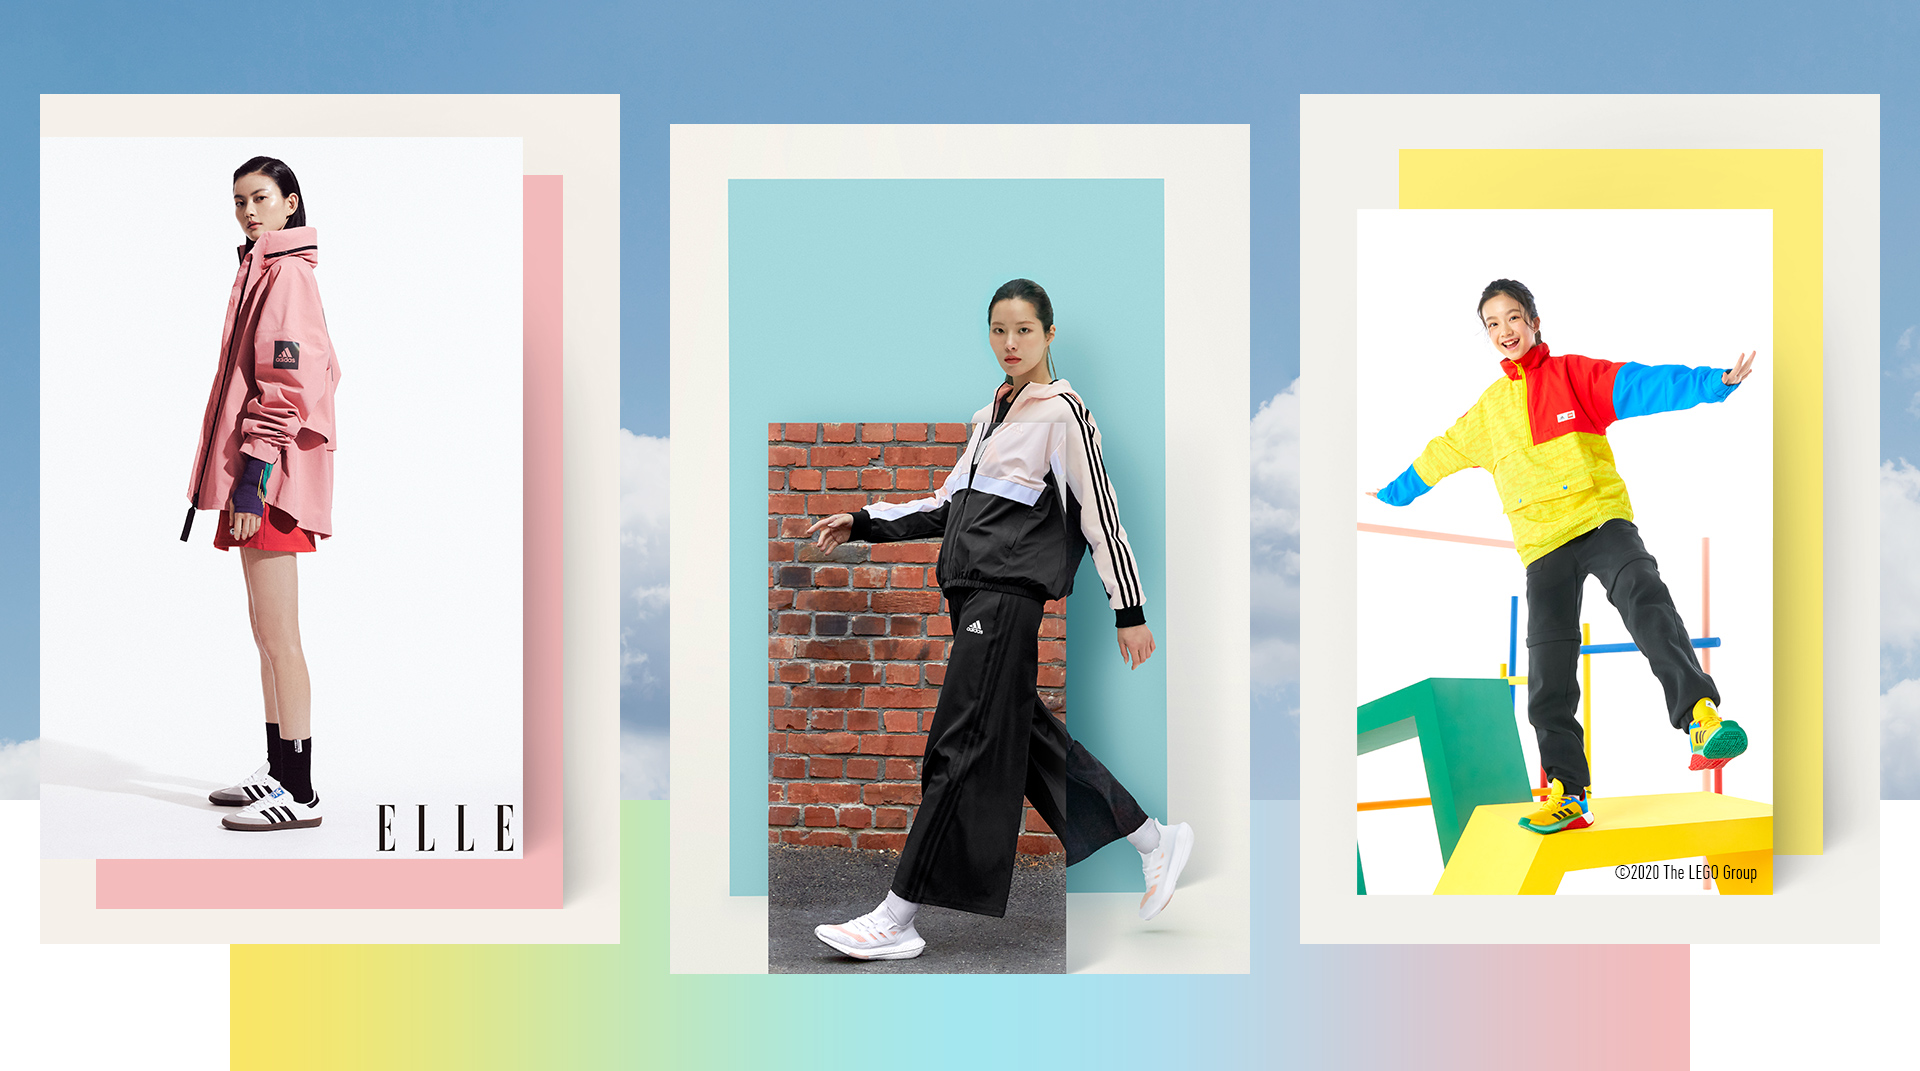
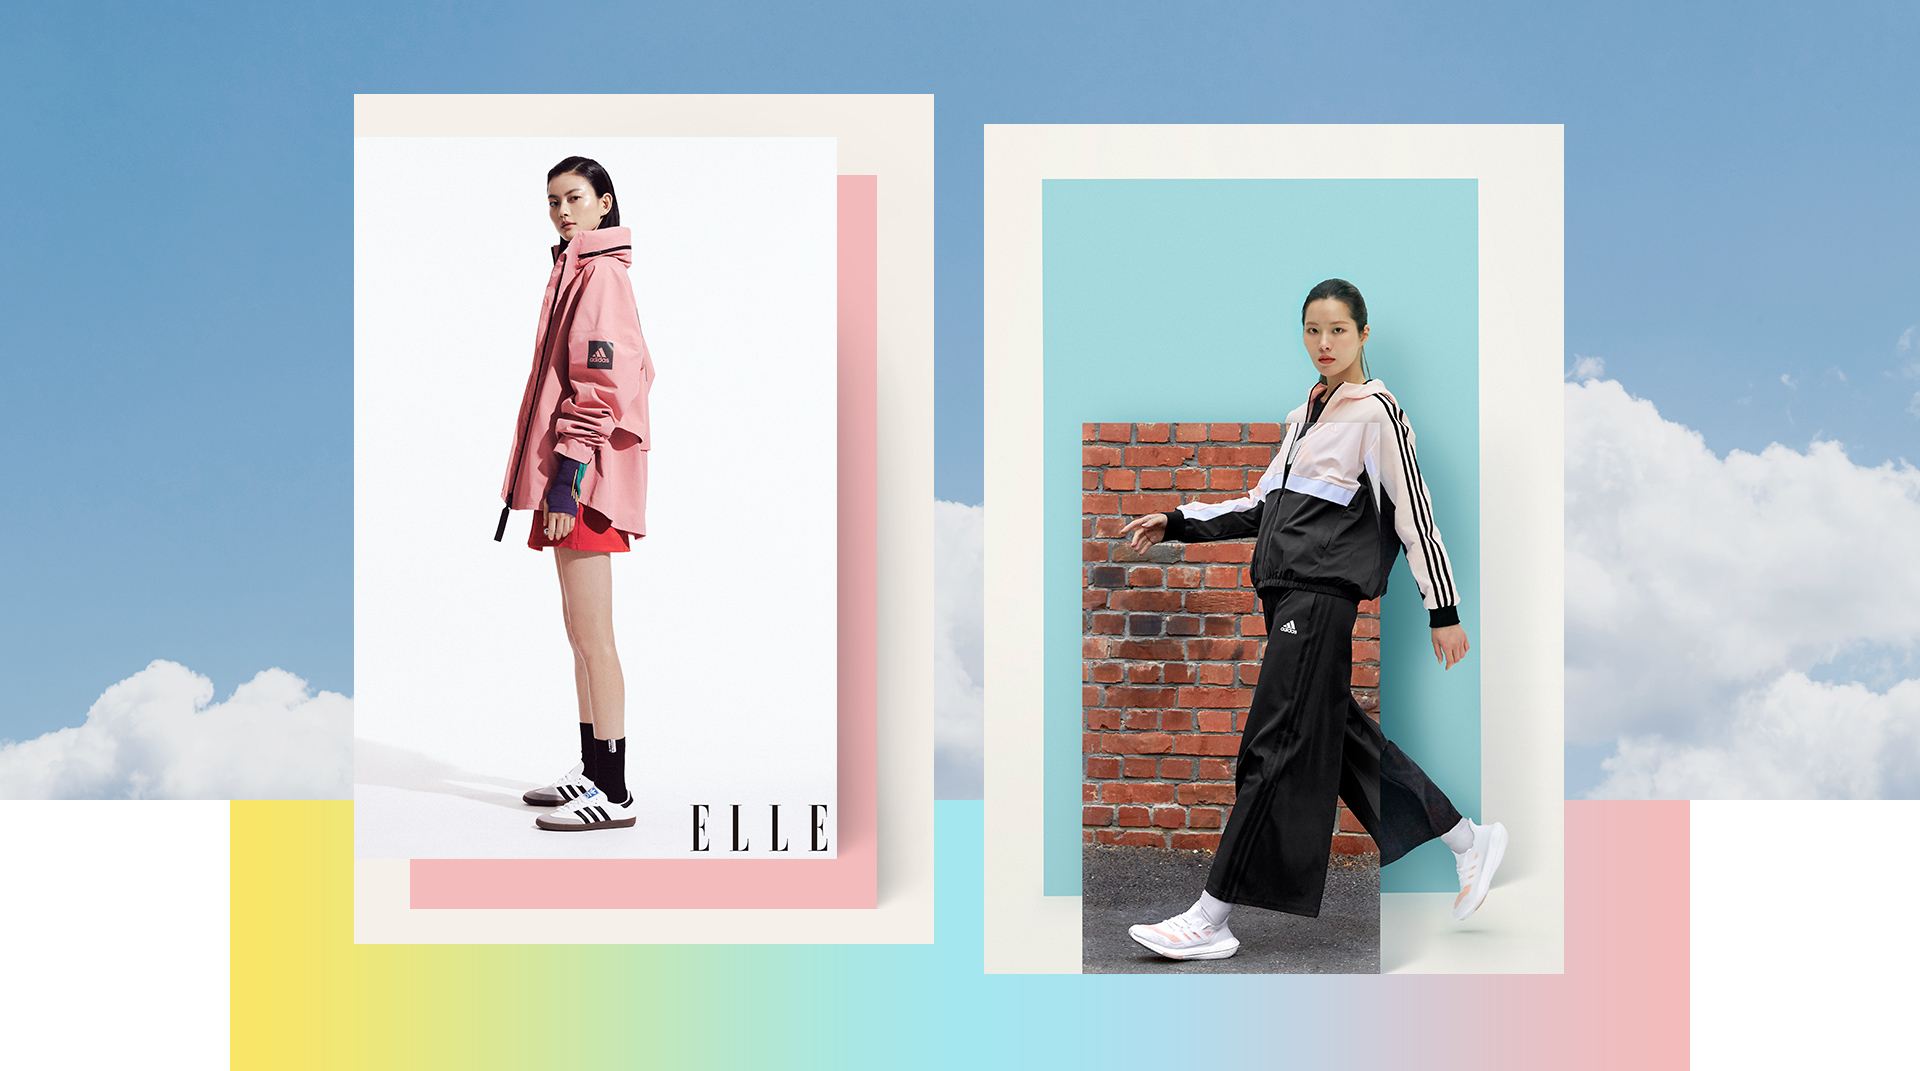
adi_CP_SP자켓 키즈 삭제

diff --git a/front/html/adidas/2021/event/outerjacket/build/index.html b/front/html/adidas/2021/event/outerjacket/build/index.html
@@ -33,7 +33,7 @@
 		<header include-html="/html/adidas/inc/header.html"></header>
 
 		<div id="container_r" class="campaign-content">
-<style type="text/css">.pseudo-element{content:'';display:block}#outerjacket section{position:relative;margin:0 auto;min-width:1190px}#outerjacket em{font-weight:700;font-style:normal}#outerjacket .btn_default{margin-top:0}#outerjacket .bg01{background:url("/images/adidas/2021/event/outerjacket/bg01.jpg") no-repeat;background-position:top;background-size:100% auto}#outerjacket .bg02{background:url("/images/adidas/2021/event/outerjacket/bg01.jpg") no-repeat;background-position:top;background-size:100% auto}#outerjacket .tabs{border-top:1.8px solid #f2bcbd;border-bottom:1.8px solid #f9e667;position:relative;background:#ffffff}#outerjacket .tabs.fixed{position:fixed;top:0;width:100%;z-index:2}#outerjacket .tabs ul{width:735px;margin:0 auto}#outerjacket .tabs ul li{position:relative;width:32.97%;font:22px/47px "adinenuPro-black";color:#000;display:inline-block;text-align:center;cursor:pointer}#outerjacket .tabs ul li.active::after{display:block;content:'';clear:both;position:absolute;bottom:-4px;left:0;right:0;width:100%;height:5px;background:url("/images/adidas/2021/event/outerjacket/tab.jpg") no-repeat}#outerjacket .visuals{height:auto}#outerjacket .visuals div[class*=figure] img,#outerjacket .visuals div[class*=figure] video{width:100%}#outerjacket .visuals .visuals__figure{margin-bottom:30rem}#outerjacket .visuals .visuals__text{position:absolute;top:97.5%;bottom:auto;left:50%;transform:translateX(-50%);margin-left:auto;white-space:nowrap;text-align:center}#outerjacket .visuals .visuals__text h3,#outerjacket .visuals .visuals__text p{text-align:center}#outerjacket .visuals .visuals__text h3{font:76px/76px "adinenuPro-black";color:#000}#outerjacket .visuals .visuals__text>p{font:400 21px/35px "NotoSansKR";color:#000;margin-top:20px}#outerjacket .visuals .visuals__text>p em{width:63%;font-weight:700;display:inline-block;margin-top:10px}#outerjacket .visuals .visuals__text .btn_default{margin-top:55px}#outerjacket .tab__container .section{display:none}@keyframes fade-in{from{opacity:0;filter:alpha(opacity=0);-ms-filter:alpha(opacity=0)}to{opacity:1;filter:alpha(opacity=100);-ms-filter:alpha(opacity=100)}}#outerjacket .tab__container .section.active{display:block;animation:fade-in 1s;animation-fill-mode:forwards;transition:0.5s;-webkit-transition:0.5s;-moz-transition:0.5s;-o-transition:0.5s;-ms-transition:0.5s}#outerjacket .tab__container .section.section02 .head__text{padding:5.5rem 0 3em 0}#outerjacket .tab__container .section .head__text{padding:5.5rem 0 5em 0;text-align:center}#outerjacket .tab__container .section .head__text span{font:400 21px/21px "NotoSansKR";color:#000}#outerjacket .tab__container .section .head__text p{text-align:center;font:900 40px/65px "NotoSansKR";color:#000}#outerjacket .tab__container .section .head__text .btn_default{margin-top:30px}#outerjacket .tab__container .section .content{position:relative}#outerjacket .tab__container .section .content img{width:100%}#outerjacket .tab__container .section .content .txt{position:absolute;top:50%;bottom:auto;left:61%;transform:translateY(-50%);margin-left:auto}#outerjacket .tab__container .section .content .txt h3{font:40px/42px "adinenuPro-black";color:#000}#outerjacket .tab__container .section .content .txt p{font:400 18px/26.5px "NotoSansKR";color:#000;margin:20px 0 30px 0}@media screen and (max-width: 1500px){#outerjacket .tab__container .section .content .txt p{font-size:15.5px}}@media screen and (max-width: 1300px){#outerjacket .tab__container .section .content .txt p{font-size:14.5px}}#outerjacket .tab__container .section .content.extra{margin:0.9rem 0}#outerjacket .tab__container .section .content.extra .txt{position:absolute;top:50%;bottom:auto;left:auto;transform:translateY(-50%);margin-left:auto;right:55%;text-align:right}#outerjacket .tab__container .section .content.extra .txt h3,#outerjacket .tab__container .section .content.extra .txt p{text-align:right}#outerjacket .tab__container .section .content .video{position:absolute;top:26.3%;bottom:auto;left:50%;transform:translate(-50%, -50%);margin-left:auto;width:42%}#outerjacket .tab__container .section .content .video video{width:100%}#outerjacket .tab__container .section .desc{padding:60px 0 40px 0;white-space:nowrap}#outerjacket .tab__container .section .desc.desc2{width:447px;margin:0 auto;padding:60px 0 65px 0}#outerjacket .tab__container .section .desc.desc2 p{line-height:35.5px}#outerjacket .tab__container .section .desc.desc2 p em{margin-top:10px}#outerjacket .tab__container .section .desc p{font:400 21px/38px "NotoSansKR";color:#000;text-align:center}#outerjacket .tab__container .section .desc p em{width:100%;display:inline-block}#outerjacket .bottoms{height:auto;padding-bottom:100px}#outerjacket .bottoms div[class*=figure] img,#outerjacket .bottoms div[class*=figure] video{width:100%}#outerjacket .bottoms .txt{text-align:center;position:absolute;top:41%;bottom:auto;left:50%;transform:translate(-50%, -50%);margin-left:auto}#outerjacket .bottoms .txt p{font:500 21px/34px "NotoSansKR";color:#000;text-align:center}#outerjacket .bottoms .txt .btn_default{margin-top:35px}
+<style type="text/css">.pseudo-element{content:'';display:block}#outerjacket section{position:relative;margin:0 auto;min-width:1190px}#outerjacket em{font-weight:700;font-style:normal}#outerjacket .btn_default{margin-top:0}#outerjacket .bg01{background:url("/images/adidas/2021/event/outerjacket/bg01.jpg") no-repeat;background-position:top;background-size:100% auto}#outerjacket .bg02{background:url("/images/adidas/2021/event/outerjacket/bg01.jpg") no-repeat;background-position:top;background-size:100% auto}#outerjacket .tabs{border-top:1.8px solid #f2bcbd;border-bottom:1.8px solid #f9e667;position:relative;background:#ffffff}#outerjacket .tabs.fixed{position:fixed;top:0;width:100%;z-index:2}#outerjacket .tabs ul{width:735px;margin:0 auto}#outerjacket .tabs ul li{position:relative;width:48.97%;font:22px/47px "adinenuPro-black";color:#000;display:inline-block;text-align:center;cursor:pointer}#outerjacket .tabs ul li.active::after{display:block;content:'';clear:both;position:absolute;bottom:-4px;left:0;right:0;width:100%;height:5px;background:url("images/adidas/2021/event/outerjacket/tab.jpg") no-repeat;background-size:100% auto}#outerjacket .visuals{height:auto}#outerjacket .visuals div[class*=figure] img,#outerjacket .visuals div[class*=figure] video{width:100%}#outerjacket .visuals .visuals__figure{margin-bottom:30rem}#outerjacket .visuals .visuals__text{position:absolute;top:97.5%;bottom:auto;left:50%;transform:translateX(-50%);margin-left:auto;white-space:nowrap;text-align:center}#outerjacket .visuals .visuals__text h3,#outerjacket .visuals .visuals__text p{text-align:center}#outerjacket .visuals .visuals__text h3{font:76px/76px "adinenuPro-black";color:#000}#outerjacket .visuals .visuals__text>p{font:400 21px/35px "NotoSansKR";color:#000;margin-top:20px}#outerjacket .visuals .visuals__text>p em{width:63%;font-weight:700;display:inline-block;margin-top:10px}#outerjacket .visuals .visuals__text .btn_default{margin-top:55px}#outerjacket .tab__container .section{display:none}@keyframes fade-in{from{opacity:0;filter:alpha(opacity=0);-ms-filter:alpha(opacity=0)}to{opacity:1;filter:alpha(opacity=100);-ms-filter:alpha(opacity=100)}}#outerjacket .tab__container .section.active{display:block;animation:fade-in 1s;animation-fill-mode:forwards;transition:0.5s;-webkit-transition:0.5s;-moz-transition:0.5s;-o-transition:0.5s;-ms-transition:0.5s}#outerjacket .tab__container .section.section02 .head__text{padding:5.5rem 0 3em 0}#outerjacket .tab__container .section .head__text{padding:5.5rem 0 5em 0;text-align:center}#outerjacket .tab__container .section .head__text span{font:400 21px/21px "NotoSansKR";color:#000}#outerjacket .tab__container .section .head__text p{text-align:center;font:900 40px/65px "NotoSansKR";color:#000}#outerjacket .tab__container .section .head__text .btn_default{margin-top:30px}#outerjacket .tab__container .section .content{position:relative}#outerjacket .tab__container .section .content img{width:100%}#outerjacket .tab__container .section .content .txt{position:absolute;top:50%;bottom:auto;left:61%;transform:translateY(-50%);margin-left:auto}#outerjacket .tab__container .section .content .txt h3{font:40px/42px "adinenuPro-black";color:#000}#outerjacket .tab__container .section .content .txt p{font:400 18px/26.5px "NotoSansKR";color:#000;margin:20px 0 30px 0}@media screen and (max-width: 1500px){#outerjacket .tab__container .section .content .txt p{font-size:15.5px}}@media screen and (max-width: 1300px){#outerjacket .tab__container .section .content .txt p{font-size:14.5px}}#outerjacket .tab__container .section .content.extra{margin:0.9rem 0}#outerjacket .tab__container .section .content.extra .txt{position:absolute;top:50%;bottom:auto;left:auto;transform:translateY(-50%);margin-left:auto;right:55%;text-align:right}#outerjacket .tab__container .section .content.extra .txt h3,#outerjacket .tab__container .section .content.extra .txt p{text-align:right}#outerjacket .tab__container .section .content .video{position:absolute;top:26.3%;bottom:auto;left:50%;transform:translate(-50%, -50%);margin-left:auto;width:42%}#outerjacket .tab__container .section .content .video video{width:100%}#outerjacket .tab__container .section .desc{padding:60px 0 40px 0;white-space:nowrap}#outerjacket .tab__container .section .desc.desc2{width:447px;margin:0 auto;padding:60px 0 65px 0}#outerjacket .tab__container .section .desc.desc2 p{line-height:35.5px}#outerjacket .tab__container .section .desc.desc2 p em{margin-top:10px}#outerjacket .tab__container .section .desc p{font:400 21px/38px "NotoSansKR";color:#000;text-align:center}#outerjacket .tab__container .section .desc p em{width:100%;display:inline-block}#outerjacket .bottoms{height:auto;padding-bottom:100px}#outerjacket .bottoms div[class*=figure] img,#outerjacket .bottoms div[class*=figure] video{width:100%}#outerjacket .bottoms .txt{text-align:center;position:absolute;top:41%;bottom:auto;left:50%;transform:translate(-50%, -50%);margin-left:auto}#outerjacket .bottoms .txt p{font:500 21px/34px "NotoSansKR";color:#000;text-align:center}#outerjacket .bottoms .txt .btn_default{margin-top:35px}
 </style>
 			<link rel="stylesheet" type="text/css" href="/css/slick.css" />
 			<div id="outerjacket">
@@ -66,7 +66,7 @@
 						<ul>
 							<li class="active">OUTDOOR</li>
 							<li>SPORTSWEAR</li>
-							<li>KIDS</li>
+							<!-- <li>KIDS</li> -->
 						</ul>
 					</div>
 					<section class="tab__container scroll">
@@ -175,7 +175,7 @@
 							</div>
 						</section>
 
-						<section class="section03 section">
+						<!-- <section class="section03 section">
 							<div class="head__text">
 								<span>
 									우리 아이들의 생기 넘치는 봄을 위해
@@ -211,7 +211,7 @@
 										poster="/images/adidas/2021/event/outerjacket/video.jpg"></video>
 								</div>
 							</div>
-						</section>
+						</section> -->
 					</section>
 
 					<section class="bottoms">

diff --git a/front/html/adidas/2021/event/outerjacket/index.scss b/front/html/adidas/2021/event/outerjacket/index.scss
@@ -14,7 +14,7 @@
 	}
 	@for $i from 1 through 2 {
 		.bg0#{$i} {
-			background: url('/images/adidas/2021/event/outerjacket/bg01.jpg') no-repeat;
+			background: url("/images/adidas/2021/event/outerjacket/bg01.jpg") no-repeat;
 			// background: url('/images/adidas/2021/event/outerjacket/bg0#{$i}.jpg') no-repeat;
 			background-position: top;
 			background-size: 100% auto;
@@ -36,7 +36,8 @@
 			margin: 0 auto;
 			li{
 				position: relative;
-				width: 32.97%;
+				// width: 32.97%;
+				width: 48.97%;
 				font: 22px/47px $adinBlk;
 				color: #000;
 				display: inline-block;
@@ -53,7 +54,8 @@
 						right: 0;
 						width: 100%;
 						height: 5px;
-						background: url('/images/adidas/2021/event/outerjacket/tab.jpg') no-repeat;
+						background: url("images/adidas/2021/event/outerjacket/tab.jpg") no-repeat;
+						background-size: 100% auto;
 					}
 				}
 			}

diff --git a/front/html/adidas/2021/event/outerjacket/index.html b/front/html/adidas/2021/event/outerjacket/index.html
@@ -64,7 +64,7 @@
 						<ul>
 							<li class="active">OUTDOOR</li>
 							<li>SPORTSWEAR</li>
-							<li>KIDS</li>
+							<!-- <li>KIDS</li> -->
 						</ul>
 					</div>
 					<section class="tab__container scroll">
@@ -173,7 +173,7 @@
 							</div>
 						</section>
 
-						<section class="section03 section">
+						<!-- <section class="section03 section">
 							<div class="head__text">
 								<span>
 									우리 아이들의 생기 넘치는 봄을 위해
@@ -209,7 +209,7 @@
 										poster="/images/adidas/2021/event/outerjacket/video.jpg"></video>
 								</div>
 							</div>
-						</section>
+						</section> -->
 					</section>
 
 					<section class="bottoms">
